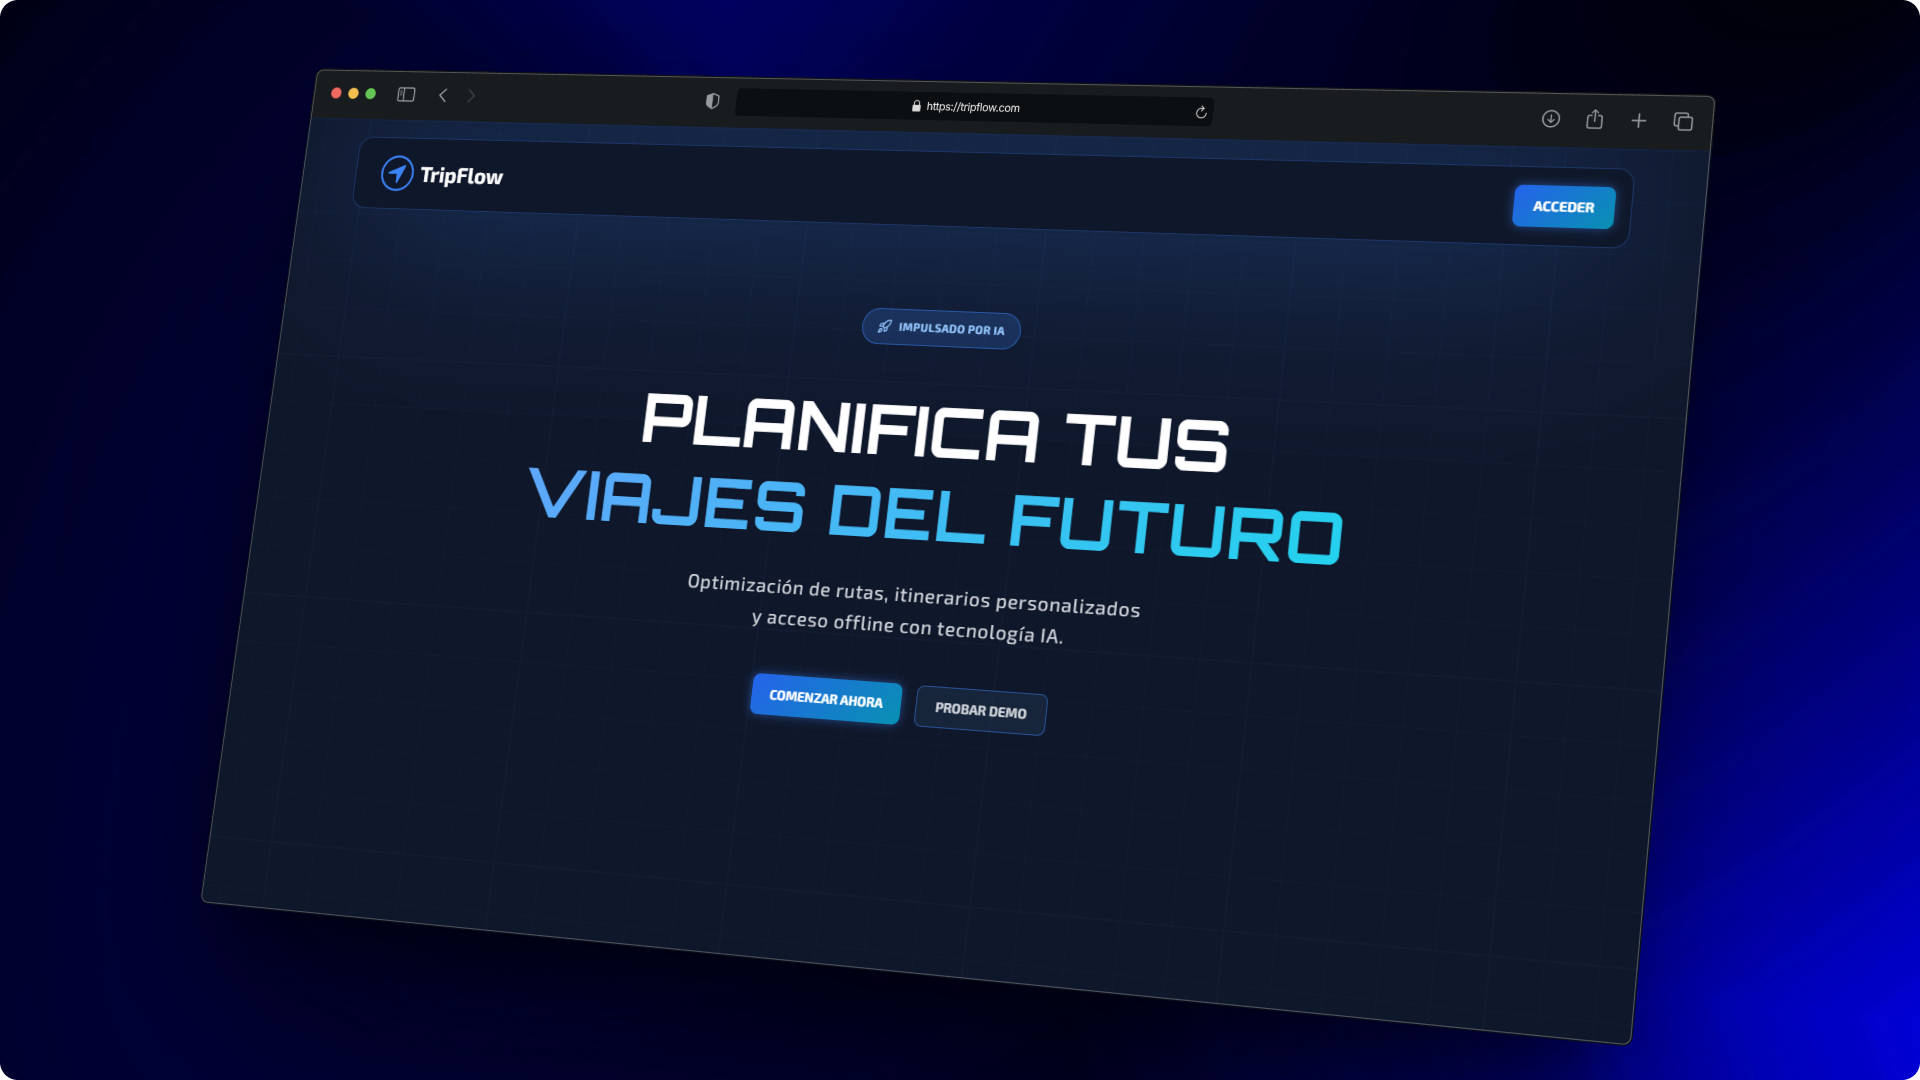
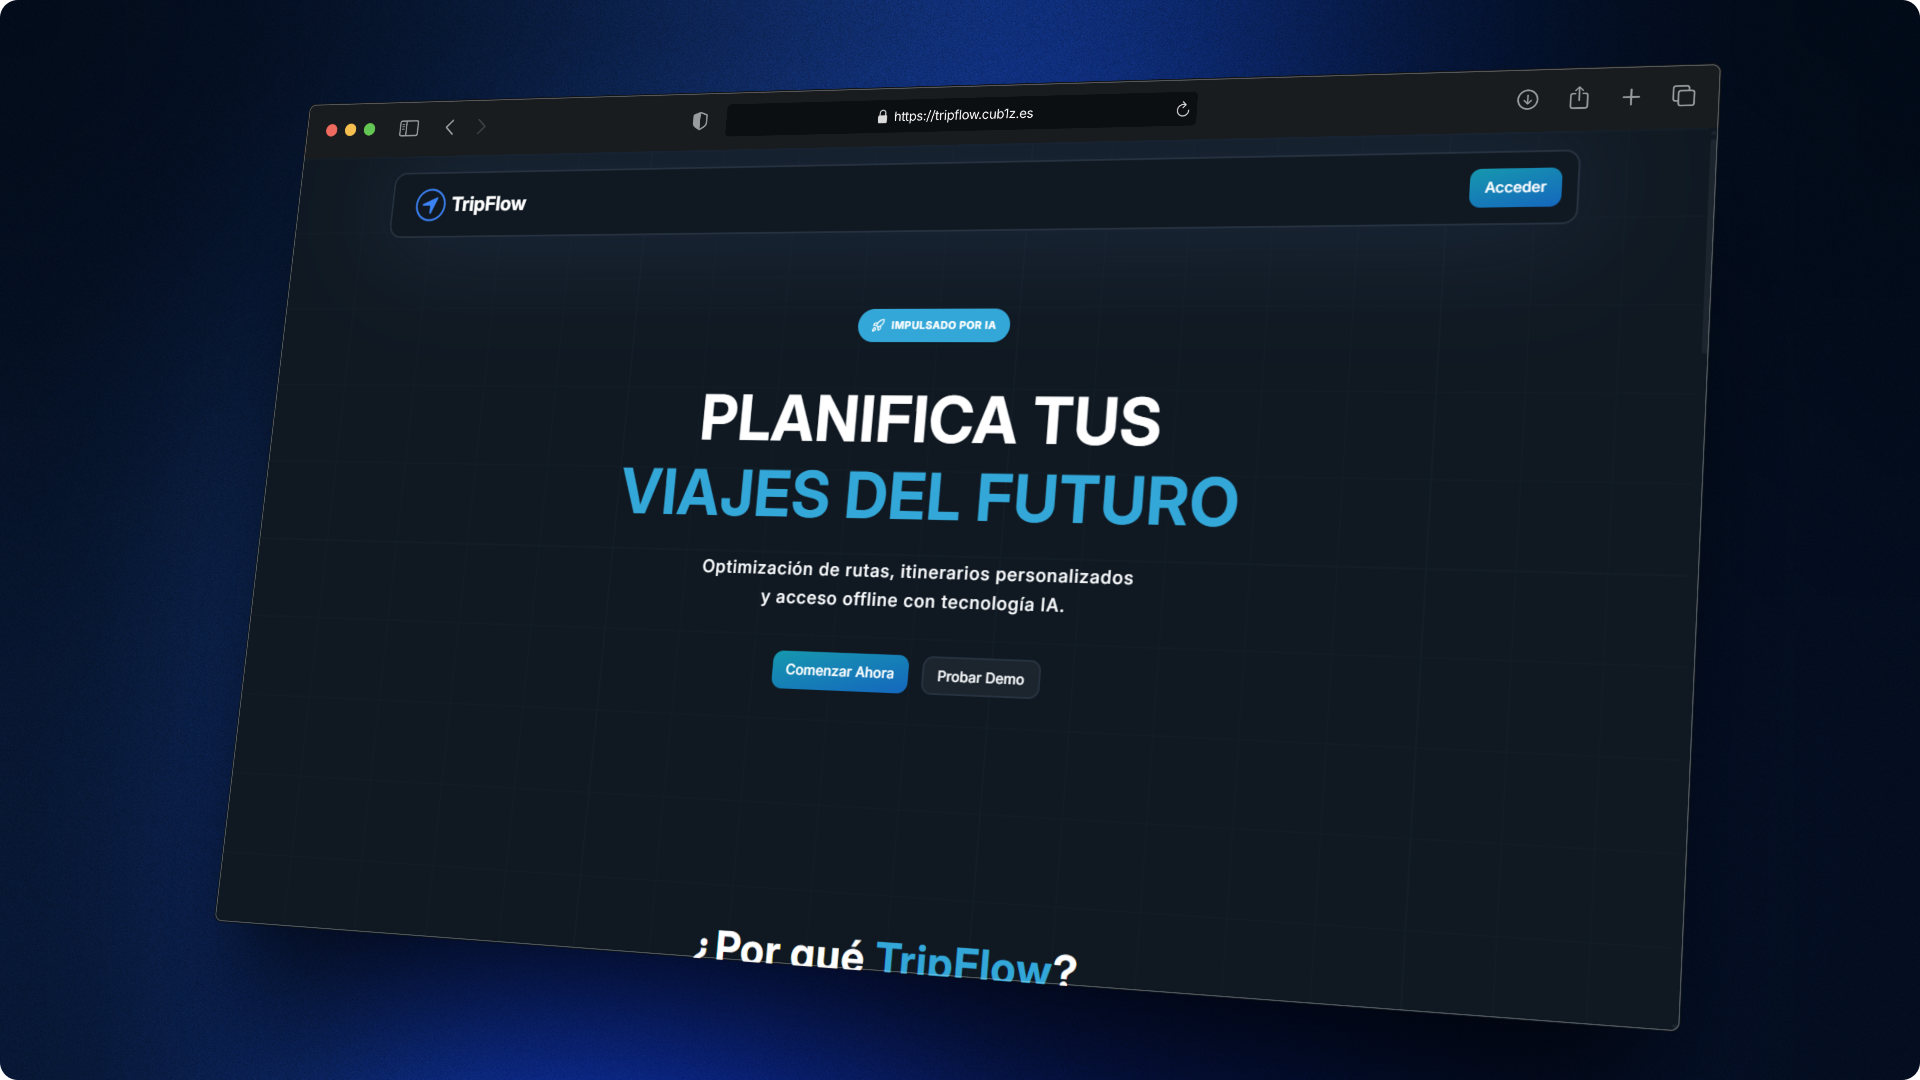
docs: Update docs for v0.2.0 release

diff --git a/docs/releases/v0.2.0.md b/docs/releases/v0.2.0.md
@@ -10,13 +10,21 @@
 
 ---
 
-## 🎬 Demo Video
+## 🖼️ Screenshots and Demo Video
 
-> **Showcase v0.2.0**
+> **📱 New Design**
+>
+> TripFlow has been completely redesigned to provide a more modern and mobile-friendly experience.
+>
+> ![TripFlow Mobile Showcase](/docs/assets/showcase_mobile.png)
+
+> ---
+
+> **🎬 Demo Video**
 >
 > Click the thumbnail below to watch the TripFlow v0.2.0 showcase video on YouTube.
 >
-> [![TripFlow v0.2.0 Demo Thumbnail](/docs/assets/showcase-v0.2.0.png)](https://www.youtube.com/watch?v=PLACEHOLDER)
+> [![TripFlow Demo Thumbnail](/docs/assets/showcase.png)](https://www.youtube.com/watch?v=jBo7KP6rQ08)
 >
 > If you experience any issues watching the video on YouTube, you can download it directly from GitHub:
 > 

diff --git a/README.md b/README.md
@@ -14,7 +14,9 @@
 
 ---
 
-![TripFlow Showcase](docs/assets/showcase.png)
+![TripFlow Landing Showcase](docs/assets/showcase_landing.png)
+
+![TripFlow Mobile Showcase](docs/assets/showcase_mobile.png)
 
 ---
 